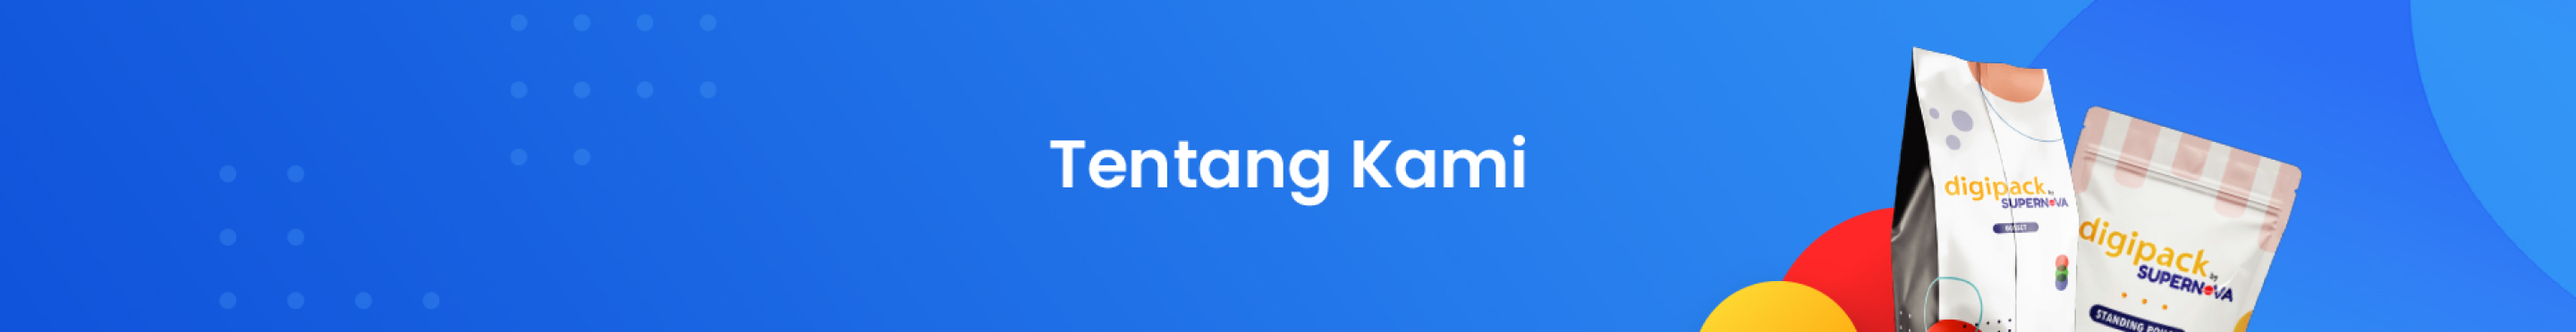
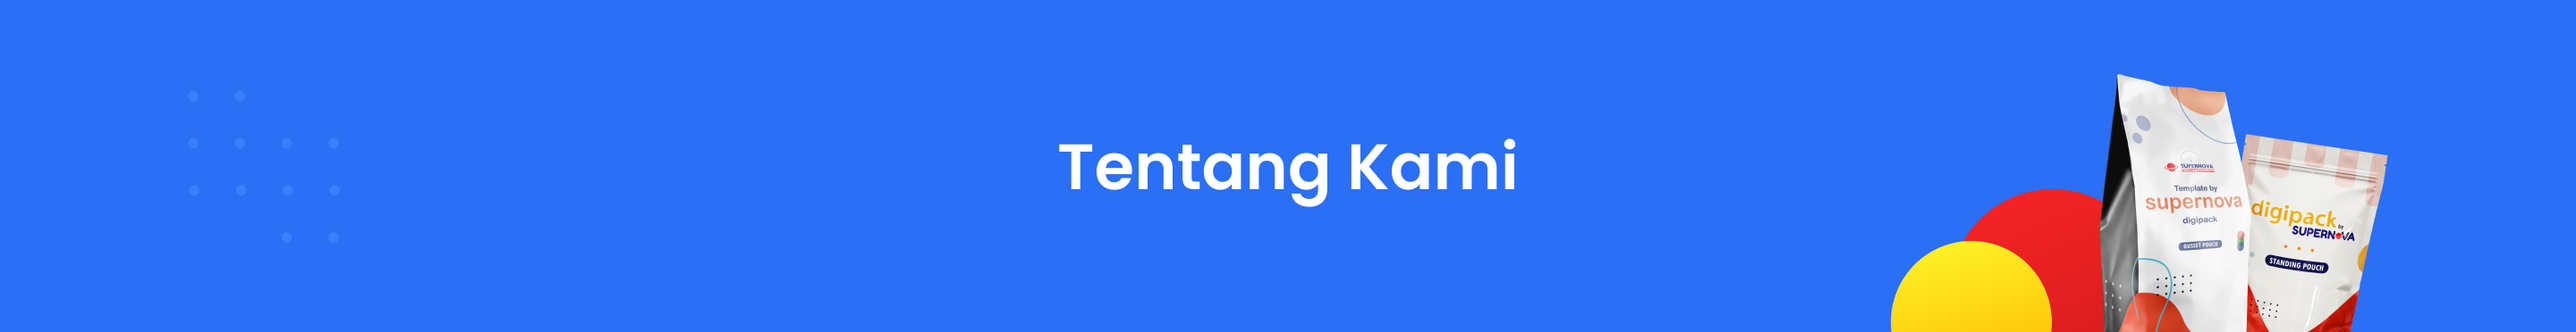
rev 4

Changed region(s): [[0.6562, 0.0, 1.0, 1.0], [0.0, 0.0, 0.1562, 1.0], [0.4062, 0.414, 0.5938, 0.621]]

diff --git a/styles/main.css b/styles/main.css
@@ -74,11 +74,7 @@ body {
 	margin-top: 30px;
 	margin-bottom: 70px;
 	/* background: #1057db; */
-	background: linear-gradient(
-		90deg,
-		rgba(16, 87, 219, 1) 35%,
-		rgba(52, 131, 247, 1) 100%
-	);
+	background: #2a6ff5;
 	width: 100%;
 }
 

diff --git a/styles/blog.css b/styles/blog.css
@@ -1,11 +1,7 @@
 .banner {
 	margin-top: 30px;
 	margin-bottom: 60px;
-	background: linear-gradient(
-		90deg,
-		rgba(16, 87, 219, 1) 35%,
-		rgba(52, 131, 247, 1) 100%
-	);
+	background: #2a6ff5;
 	width: 100%;
 }
 

diff --git a/styles/blog-detail.css b/styles/blog-detail.css
@@ -1,10 +1,6 @@
 .banner {
 	margin-top: 30px;
-	background: linear-gradient(
-		90deg,
-		rgba(16, 87, 219, 1) 35%,
-		rgba(52, 131, 247, 1) 100%
-	);
+	background: #2a6ff5;
 	width: 100%;
 }
 
